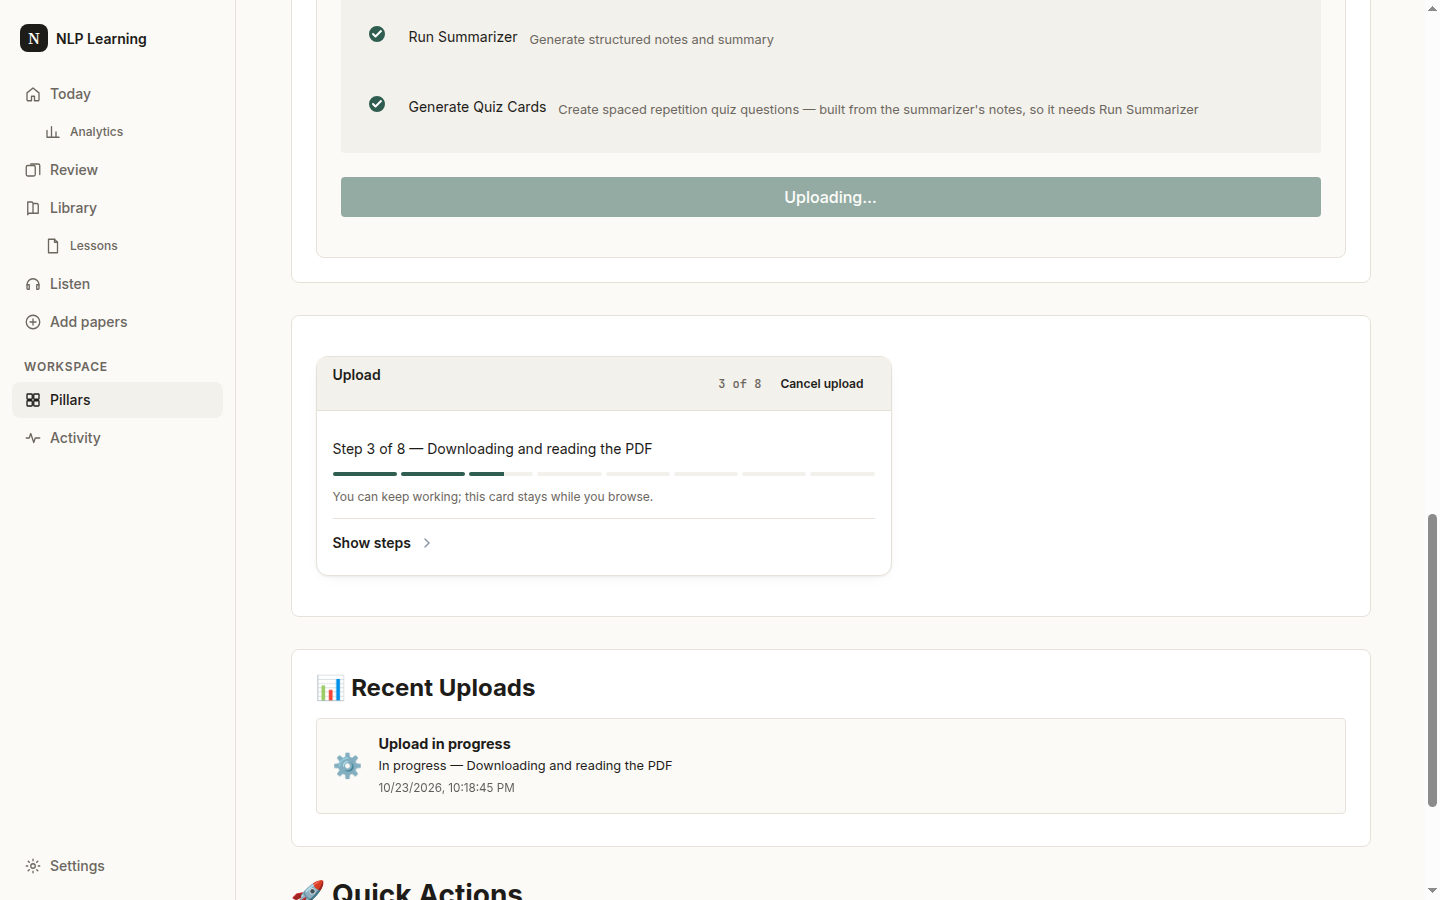
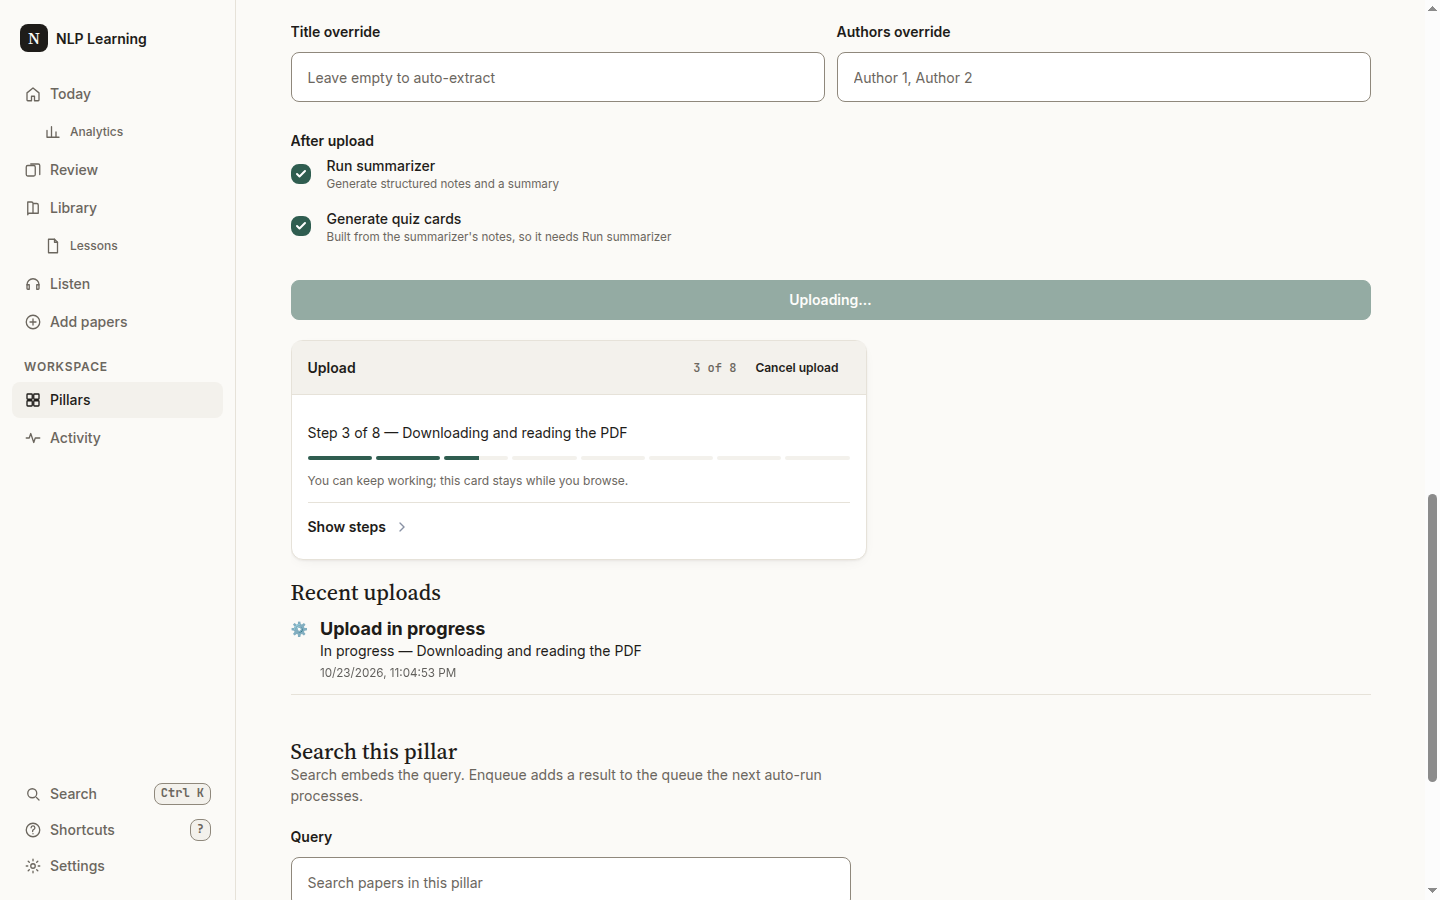
Show the upload run on the rebuilt pillar page.
The upload panel moved into pillar-upload.js. The same run card and tone classes now drive that panel.

diff --git a/tests/webui/test_pillars_pages.py b/tests/webui/test_pillars_pages.py
@@ -62,7 +62,7 @@ def test_save_control_is_not_a_submit_and_edit_stays_on_the_page():
     detail = (ROOT / "webui" / "templates" / "pillar_detail.html").read_text()
     assert "activity-item-link" in detail
     assert "/pillars/${" not in detail
-    assert 'id="upload-run-status"' in detail
+    assert "status_id='upload-run-status'" in detail
     assert 'id="search-form"' in detail
     assert 'data-pillar-id="{{ pillar.id }}"' in detail
     assert "/discovery/?pillar=" in detail
